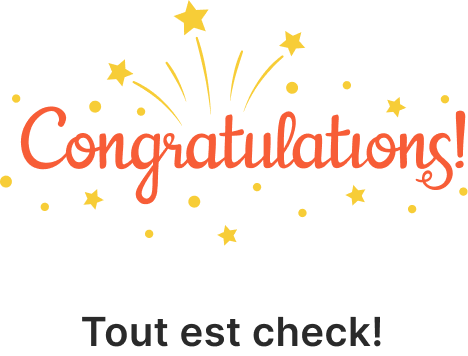
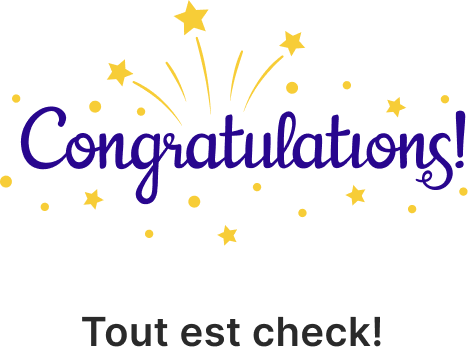
update1

Changed region(s): [[0.0299, 0.2781, 1.0, 0.5871]]

diff --git a/UI/App1.js b/UI/App1.js
@@ -1,18 +1,42 @@
 import { React, useState } from 'react';
-import { View, StyleSheet, TextInput, Image, Text, TouchableOpacity } from 'react-native';
+import { View, StyleSheet, TextInput, Image, Text, TouchableOpacity, Alert } from 'react-native';
 
-const App1 = ({ navigation }) => {
-    function connexion() {
+const App1 =  ({ navigation }) => {
+    const connexion = async () => {
         if ((numero == '') || (mdp == '')) {
             alert('Entrer votre numéro de téléphone et/ou votre mot de passe.');
             return;
         }
-        setnumero('');
-        setmdp('');
-        navigation.navigate('App6');
+
+        try {
+            const reponse = await fetch('http://10.0.2.2:5454/connexion', {
+                method: 'POST',
+                headers: {'Content-Type': 'application/json'},
+                body: JSON.stringify({
+                    numero : numero,
+                    mdp : mdp
+                })
+            })
+
+            const resultat = await reponse.json();
+            if (resultat.result) {
+                setnumero('');
+                setmdp('');
+                navigation.navigate('App6');
+            } else {
+                Alert.alert("Compte inexistant", "Votre compte n'existe pas")
+            }
+        } catch (e) {
+            console.error(e)
+            Alert.alert("Echec de connexion", "Connectez vous à internet")
+        }
     }
 
-    function mdpoublie() {
+    function google() {
+        Alert.alert('Pas encore disponible', 'Revenez plus tard')
+    }
+
+    function mdpoublie() { 
         setnumero('');
         setmdp('');
         navigation.navigate('App3');
@@ -43,7 +67,7 @@ const App1 = ({ navigation }) => {
             </View>
             <View style = {styles.container2}>
                 <Image
-                    source = {require('./images/Logoorange.png')}
+                    source = {require('./images/safaraplace2.png')}
                     style = {styles.image}
                 />
             </View>
@@ -58,7 +82,8 @@ const App1 = ({ navigation }) => {
                     onChangeText = {setnumero}
                 />
                 <Text style = {styles.texte1}>Entrer votre mot de passe</Text>
-                <TextInput style = {focus2 ? styles.textinputfocus : styles.textinput} secureTextEntry = {visible_mdp}
+                <TextInput style = {focus2 ? styles.textinputfocus : styles.textinput} 
+                    secureTextEntry = {visible_mdp}
                     placeholder = 'Votre mot de passe...'
                     onFocus = {() => setfocus2(true)}
                     onBlur = {() => setfocus2(false)}
@@ -71,13 +96,21 @@ const App1 = ({ navigation }) => {
                 />
                 </TouchableOpacity>
                 <TouchableOpacity style = {{alignSelf : 'flex-end', paddingTop: 25}} onPress = {(mdpoublie)}>
-                    <Text style = {{color : '#F75D37', paddingBottom: 5, fontFamily: "inter", fontSize: 13}}>Mot de passe oublié ?</Text>
+                    <Text style = {{color : '#28068E', paddingBottom: 5, fontFamily: "inter", fontSize: 13}}>Mot de passe oublié ?</Text>
                 </TouchableOpacity>
                 <TouchableOpacity style = {styles.button} onPress = {(connexion)}>
                     <Text style = {{color : '#ffffff', fontFamily: "inter", fontSize: 16, fontWeight : 'bold'}}>Se connecter</Text>
                 </TouchableOpacity>
                 <TouchableOpacity onPress = {(enregistrer)}>
-                    <Text style = {{alignSelf: 'center', paddingTop: 10, fontSize: 14, fontFamily: "nunito", color: '#F75D37', fontWeight : 'bold'}}>Pas de compte ? Créez en un</Text>
+                    <Text style = {{alignSelf: 'center', paddingTop: 10, fontSize: 14, fontFamily: "nunito", color: '#28068E', fontWeight : 'bold'}}>Pas de compte ? Créez en un</Text>
+                </TouchableOpacity>
+                <Text style = {{alignSelf: 'center', paddingTop: 15, paddingBottom: 15,}} >ou</Text>
+                <TouchableOpacity style = {{borderWidth: 1, borderColor: '#D1D1D1' , borderRadius: 20, width : 300, alignSelf : 'center', flexDirection: 'row', height: 45}} onPress = {(google)}>
+                    <Image
+                        source = {require('./images/google.png')}
+                        style = {{width : 25, height : 25, alignSelf: 'center', marginLeft: 60,}}
+                    />
+                    <Text style = {{alignSelf: 'center', fontFamily: 'nunito', fontWeight: 'bold', color : 'black', marginLeft: 10}}>Continuer avec Google</Text>
                 </TouchableOpacity>
             </View>
         </View>
@@ -151,7 +184,7 @@ const styles = StyleSheet.create({
     },
 
     button : {
-        backgroundColor : '#F75D37',
+        backgroundColor : '#28068E', // #582df3
         height : 45,
         justifyContent: 'center',
         alignItems: 'center',

diff --git a/UI/App2.js b/UI/App2.js
@@ -1,5 +1,5 @@
 import { React, useState } from 'react';
-import { View, StyleSheet, TextInput, Image, Text, TouchableOpacity } from 'react-native';
+import { View, StyleSheet, TextInput, Image, Text, TouchableOpacity, Alert } from 'react-native';
 
 const App2 = ({ navigation }) => {
     function retour() {
@@ -9,7 +9,7 @@ const App2 = ({ navigation }) => {
         navigation.navigate('App1');
     }
 
-    function enregistrer() {
+    const enregistrer = async () => {
         if (mdp == '' || numero == '' || mdp2 == '') {
             alert('Entrer votre numéro et/ou votre mot de passe');
             return;
@@ -20,7 +20,29 @@ const App2 = ({ navigation }) => {
             return;
         }
 
-        alert('Bientôt disponible');
+        try {
+            const reponse = await fetch('http://10.0.2.2:5454/inscrire', {
+                method: 'POST',
+                headers: {'Content-Type': 'application/json'},
+                body: JSON.stringify({
+                    numero : numero,
+                    mdp : mdp
+                })
+            })
+
+            const resultat = await reponse.json();
+            if (resultat.result) {
+                setnumero('');
+                setmdp('');
+                Alert.alert('Inscription réussie')
+                navigation.navigate('App1')
+            } else {
+                Alert.alert("Inscription failed", "Le compte existe déjà")
+            }
+        } catch (e) {
+            console.error(e)
+            Alert.alert("Echec de connexion", "Connectez vous à internet")
+        }
     }
 
     function voirMdp() {
@@ -57,7 +79,7 @@ const App2 = ({ navigation }) => {
             </View>
             <View style = {styles.container2}>
                 <Image
-                    source = {require('./images/Logoorange.png')}
+                    source = {require('./images/safaraplace2.png')}
                     style = {styles.image}
                 />
             </View>
@@ -103,7 +125,7 @@ const App2 = ({ navigation }) => {
                     <Text style = {{color : '#ffffff', fontFamily: "inter", fontSize: 16, fontWeight : 'bold'}}>Enregistrer</Text>
                 </TouchableOpacity>
                 <TouchableOpacity onPress = {(retour)}>
-                    <Text style = {{alignSelf: 'center', paddingTop: 10, fontSize: 14, fontFamily: "nunito", color: '#F75D37', fontWeight : 'bold'}}>Vous avez déjà un compte ? Se connecter</Text>
+                    <Text style = {{alignSelf: 'center', paddingTop: 10, fontSize: 14, fontFamily: "nunito", color: '#28068E', fontWeight : 'bold'}}>Vous avez déjà un compte ? Se connecter</Text>
                 </TouchableOpacity>
           </View>
         </View>
@@ -179,7 +201,7 @@ const styles = StyleSheet.create({
     },
 
     button : {
-        backgroundColor : '#F75D37',
+        backgroundColor : '#28068E',
         height : 45,
         justifyContent: 'center',
         alignItems: 'center',

diff --git a/BackEnd/bd.js b/BackEnd/bd.js
@@ -1,0 +1,49 @@
+const express = require('express')
+const cors = require('cors')
+const app = express()
+const db = require('./mysqlbd.js');
+const PORT = 5454
+
+app.use(cors())
+app.use(express.json())
+
+app.get('/test', (req, res) => {
+res.send('Connecté')
+})
+
+app.post('/connexion', (req, res) => {
+    const {numero, mdp} = req.body
+    const sql = 'select * from user where numero_adresse = ? and mot_de_passe = ?;';
+    db.query(sql, [parseInt(numero), mdp], (err, results) => {
+        if (err) {
+            console.error('Erreur requête :', err);
+            res.json({ result: false })
+        } else {
+            console.log('1 requête reussie')
+            if (results.length > 0) {
+            res.json({ result: true });
+            } else {
+            res.json({ result: false });
+            }
+        }
+    })
+})
+
+
+app.post('/inscrire', (req, res) => {
+    const { numero, mdp } = req.body
+    const sql = 'insert into user (numero_adresse, mot_de_passe) values (?, ?);'
+        db.query(sql, [parseInt(numero), mdp], (err, results) => {
+        if (err) {
+            console.error('Erreur requête :', err);
+            res.json({ result: false })
+        } else {
+            console.log('1 requête reussie')
+            res.json({ result : true })
+        }
+    })
+})
+
+app.listen(PORT, () => {
+console.log('API active sur localhost:%d', PORT)
+})

diff --git a/UI/OnBoard1.js b/UI/OnBoard1.js
@@ -1,0 +1,33 @@
+import { React } from 'react';
+import { View, Image, Text, TouchableOpacity } from 'react-native';
+
+const OnBoard1 =  ({ navigation }) => {
+    function suivant() {
+        navigation.navigate('App1')
+    }
+
+    return (
+        <View style={{justifyContent: 'center', flex: 0, paddingLeft: 30, paddingRight: 30}}>
+            <Image
+                source = {require('./images/56465.png')}
+                style = {{width: 362, height: 343, alignSelf: 'center', marginTop: 50}}
+            />
+            <Text style={{paddingTop: 20, fontWeight: 'bold', color : 'black', fontSize: 26, textAlign : 'center', paddingBottom: 20,}}>
+                La meilleure application mobile de voyage du Cameroun
+            </Text>
+            <Text style={{fontSize: 15, fontFamily: 'inter', textAlign : 'justify'}}>
+                Lorem ipsum dolor sit amet consectetur. Mi ultricies ultrices fermentum a. Duis neque lectus pharetra ac sed lorem.
+            </Text>
+            <TouchableOpacity onPress = {(suivant)}>
+            <Image
+                source = {require('./images/fleche.png')}
+                style = {{width: 40, height: 40, alignSelf: 'center', marginTop: 200, alignSelf: 'flex-end'}}
+            />
+            </TouchableOpacity>
+        </View>
+    );
+};
+
+
+
+export default OnBoard1;

diff --git a/UI/App.js b/UI/App.js
@@ -4,7 +4,7 @@ import { View, Image, StyleSheet } from 'react-native';
 const App = ({ navigation }) => {
     useEffect(() => {
         const temps = setTimeout(() => {
-            navigation.navigate('App1'); 
+            navigation.navigate('OnBoard1'); 
         }, 2000);
 
         return () => clearTimeout(temps);
@@ -13,7 +13,7 @@ const App = ({ navigation }) => {
     return (
         <View style={styles.container}>
             <Image 
-                source = {require('./images/frame.png')} 
+                source = {require('./images/safaraplace.png')} 
                 style = {styles.image}
             />
         </View>
@@ -25,7 +25,7 @@ const styles = StyleSheet.create({
         flex: 1,
         justifyContent: 'center',
         alignItems: 'center',
-        backgroundColor: '#F75D37',
+        backgroundColor: '#28068E',
     },
     image: {
         width : 300,

diff --git a/UI/MainApp.js b/UI/MainApp.js
@@ -10,6 +10,7 @@ import App4 from './App4';
 import App5 from './App5';
 import App6 from './App6';
 import App7 from './App7';
+import OnBoard1 from './OnBoard1';
 
 const Stack = createNativeStackNavigator();
 
@@ -25,6 +26,7 @@ export default function MainApp() {
         <Stack.Screen name="App5" component={App5} options={{ headerShown: false }} />
         <Stack.Screen name="App6" component={App6} options={{ headerShown: false }} />
         <Stack.Screen name="App7" component={App7} options={{ headerShown: false }}  />
+        <Stack.Screen name="OnBoard1" component={OnBoard1} options={{ headerShown: false }}  />
       </Stack.Navigator>
     </NavigationContainer>
   );

diff --git a/BackEnd/mysqlbd.js b/BackEnd/mysqlbd.js
@@ -1,0 +1,18 @@
+const mysql = require('mysql2');
+
+const connection = mysql.createConnection({
+  host: 'localhost',      
+  user: 'Jean_Roland',         
+  password: 'Papasenegal0',           
+  database: 'voyage'    
+});
+
+connection.connect((err) => {
+  if (err) {
+    console.error('Erreur de connexion :', err);
+  } else {
+    console.log('Connecté à MySQL');
+  }
+});
+
+module.exports = connection;

diff --git a/UI/App3.js b/UI/App3.js
@@ -155,7 +155,7 @@ const styles = StyleSheet.create({
     button : {
         marginLeft : -10,
         marginTop: 20,
-        backgroundColor : '#F75D37',
+        backgroundColor : '#28068E',
         height : 45,
         justifyContent: 'center',
         alignItems: 'center',

diff --git a/UI/App4.js b/UI/App4.js
@@ -219,7 +219,7 @@ const styles = StyleSheet.create({
 
     button : {
         marginTop: 20,
-        backgroundColor : '#F75D37',
+        backgroundColor : '#28068E',
         height : 45,
         justifyContent: 'center',
         alignItems: 'center',

diff --git a/UI/App5.js b/UI/App5.js
@@ -131,7 +131,7 @@ const styles = StyleSheet.create({
 
     button : {
         marginTop: 20,
-        backgroundColor : '#F75D37',
+        backgroundColor : '#28068E',
         height : 50,
         justifyContent: 'center',
         alignItems: 'center',
